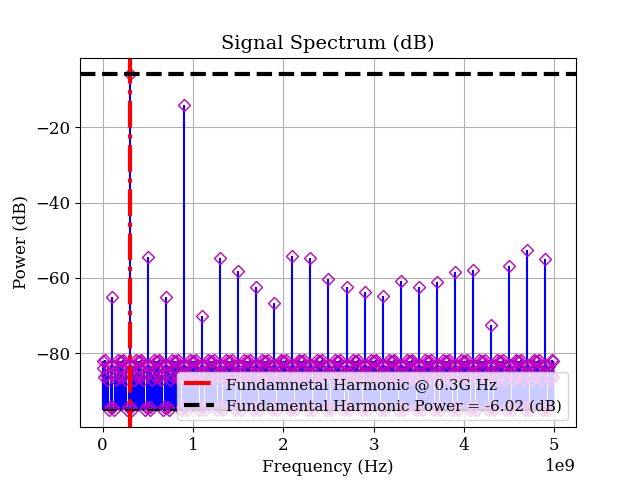
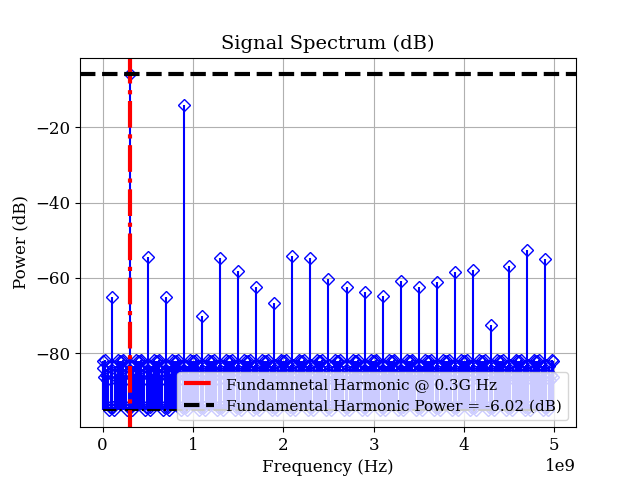
Changes in the ADC Dynamic evaluation function to suit Cadence generated raw data.

diff --git a/src/dycifer/mixed_signals.py b/src/dycifer/mixed_signals.py
@@ -39,6 +39,7 @@ def mixedSignalsDynamicEval(subparser, *args, **kwargs):
             v_source=v_source,
             harmonics=harmonics, 
             signal_span_factor=signal_span,
+            asceding_bit_order=argv.ascending
         )
         # prepare to plot resulting information
         dynamic_eval_indicators = DataFrame(
@@ -55,8 +56,8 @@ def mixedSignalsDynamicEval(subparser, *args, **kwargs):
         )
         if argv.plot:
             plotPrettyFFT(
-                spectrum[spectrum.index.values>0].index, # plot only positive frequencies spectrum
-                spectrum[spectrum.index.values>0]["power_db"],
+                spectrum[spectrum.index.values>=0].index, # plot only positive frequencies spectrum
+                spectrum[spectrum.index.values>=0]["power_db"],
                 title="Signal Spectrum (dB)",
                 xlabel= "Frequency (Hz)",
                 ylabel= "Power (dB)",
@@ -65,7 +66,7 @@ def mixedSignalsDynamicEval(subparser, *args, **kwargs):
             )
         if bool(argv.output_dir):
             plotPrettyFFT(
-                spectrum[spectrum.index.values>=0].index, # plot only positive frequencies spectrum
+                spectrum[spectrum.index>=0].index, # plot only positive frequencies spectrum
                 spectrum[spectrum.index.values>=0]["power_db"],
                 title="Signal Spectrum (dB)",
                 xlabel= "Frequency (Hz)",
@@ -101,6 +102,7 @@ def adcDynamicEval(
     v_source:float=1.0,
     harmonics:int=7,
     signal_span_factor:float=0.0,
+    asceding_bit_order:bool=False,
 ) -> tuple[DataFrame, float, float, float, float, float, float, float]:
     """_summary_
     Dynamic performance evaluation of Analog-to-Digital Converter circuits
@@ -116,6 +118,8 @@ def adcDynamicEval(
         harmonics (int, optional): The number of harmonics considered in the analysis of the harmonic distortion of the ADC. Defaults to 7.
         singal_span_factor (float, optional): Percentual factor determining how much of the signal's
                                                 power is dispersed onto the remanescent spectrum of the signal's spectrum. Defaults to 0.0
+        ascending_bit_order (bool, optional): When parsing bit signals (and not output word), indicate if the columns of each bit (in the signals dataframe)
+                                                are in ascending or descending order. Defaults to False.
     Returns:
         tuple(DataFrame, float(1), float(2), float(3), float(4), float(5), float(6), float(7)): 
             DataFrame: The frequency spectrum of the ADC's output signal in volt, volt squared (power) and decibels.
@@ -167,7 +171,10 @@ def adcDynamicEval(
             dout[col][dout[col]<=means[col]] = 0
             dout[col][dout[col]>means[col]] = 1
         def join_bits(row):
-            return "".join(map(lambda b: str(int(b)), row.values))
+            if not asceding_bit_order:
+                return "".join(map(lambda b: str(int(b)), row.values))
+            else:
+                return "".join(map(lambda b: str(int(b))), np.flipud(row.values))
         dout["bin_word"] = dout.apply(join_bits, axis=1)
         dout["dec_word"] = dout["bin_word"].apply(lambda bin: int(bin, 2))
         # recenter the decoded word in 0 and scale it to [-1; +1]

diff --git a/src/dycifer/dycifer.py b/src/dycifer/dycifer.py
@@ -27,7 +27,8 @@ __cmd_args = {
         "-bit": ("--bit-resolution", "Bit-wise resolution of the ADC/DAC", "<#bits>", int, "opt"),
         "-vs": ("--voltage-source", "Voltage source of the ADC/DAC", "<voltage>", float, "opt"),
         "-nh": ("--harmonics", "Number of harmonics of the output signal power considered during THD computation", "<#harmonics>", int, "opt"),
-        "-ss": ("--signal-span", "Spectral dispertion factor of the output signal power", "<decimal>", float, "opt")
+        "-ss": ("--signal-span", "Spectral dispertion factor of the output signal power", "<decimal>", float, "opt"),
+        "-a": ("--ascending", "Boolean value indicating if the signals of each Bit are in ascending bit order or not", "", bool, "opt")
     },
     "-a":{
         "-cmp":("--comparator", "Compararator dynamic performance evaluation", "", bool, "opt"),

diff --git a/tests/test_dycifer.py b/tests/test_dycifer.py
@@ -139,6 +139,26 @@ class TestDycifer(unittest.TestCase):
         ]
         with self.assertRaises(SystemExit):
             cli(args)
+            
+    def test_dycifer_cli_mixed_signals_adcDynamicEval_cadence_data(self):
+        """_summary_
+        Testing the mixed-signals CLI to evaluate the ADC dynamic performance
+        with signals provenient directly from Cadence.
+        """
+        args=[
+            "mixed-signals",
+            "-adc",
+            "-s",
+            "./resources/data/fft_points_c2c_256_bin7.csv",
+            "-fs",
+            "1 G",
+            "-gt",
+            "-o",
+            "./resources/tables_jonny",
+            "-p",
+        ]
+        with self.assertRaises(SystemExit):
+            cli(args)
     
 if __name__ == '__main__':
     unittest.main()

diff --git a/src/dycifer/utils.py b/src/dycifer/utils.py
@@ -66,7 +66,7 @@ def plotPrettyFFT(
     #define font family to use for all text
     rcParams['font.family'] = 'serif'
     #plt.figure(figsize=(8,6))
-    markerline, stemlines, baseline = plt.stem(freq, power,bottom=min(power), linefmt='b-', markerfmt='mD', basefmt='k-.')
+    markerline, stemlines, baseline = plt.stem(freq, power,bottom=min(power), linefmt='b-', markerfmt='bD', basefmt='k-.')
     markerline.set_markerfacecolor('none')
     # highlight the spectral signal components
     signal_freq = freq[where(power == max(power[1:]))] # don't count the dc component
@@ -89,3 +89,4 @@ def plotPrettyFFT(
         if not os.path.exists(getParent(file_path)):
             raise FileNotFoundError(f"Directory does not exist : {getParent(file_path)}")
         plt.savefig(file_path)
+    plt.clf()
